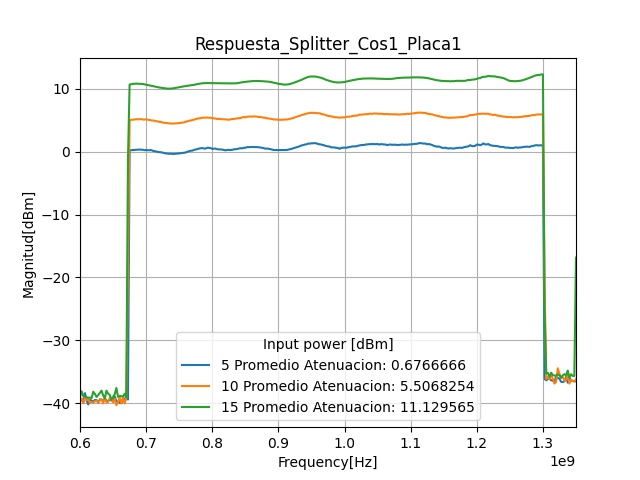
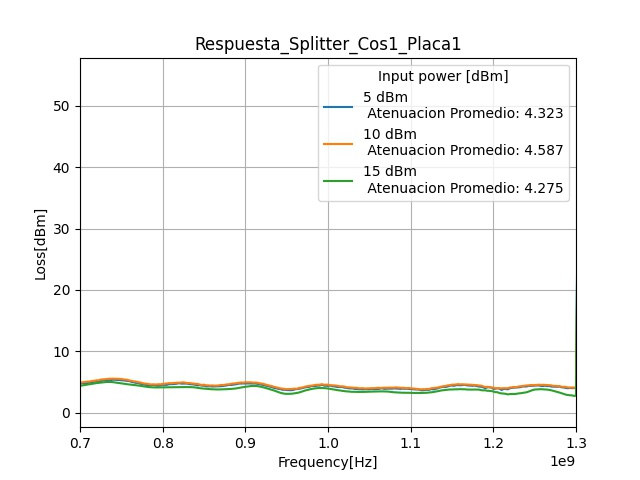
Nuevas figuras en base a las perdidas

diff --git a/plotcsv.py b/plotcsv.py
@@ -3,66 +3,135 @@ import numpy as np
 from classCSV.extratCSV import extratCSV
 
 '''
-Graficar Aislacion, solo con los mixer
-Restar las perdidas de los splitter 8,5dB EP2RCW
-y splitter en cuadratura 5dB
+_________LO-IF
+Con los mixer se tuvo en cuenta las peridas de los splitter 8,5dB EP2RCW(hoja de datos)
+y splitter en cuadratura 5.5 dB QCN-13D+ (medidos, en la hoja de datos era de 3.2 aprox)
+No se tiene los .cv de 20dBm por que el generador no garantizaba salida cte con 20dBm para todas las frecuencias
+_Tareas:
 Graficar RF-FI
 Probar con los generadores usb en modo inverso en las 2 entradas
 '''
 #######################################
 # ##LO-IF-Io1
-# path1 = "image_and_csv/csv/TRACE1:LO+IF+10DBM[500MHZ+1500MHZ].CSV"
-# path2 = "image_and_csv/csv/TRACE1:LO+IF+15DBM[500MHZ+1500MHZ].CSV"
-# path3 = "image_and_csv/csv/TRACE1:LO+IF+20DBM[500MHZ+1500MHZ].CSV"
+# tema          = 'Aislacion_entre_puertos_LO-IF'
+# value         = ['10 dBm','15 dBm']
+# outputPort    = 'Io1'
+# numerosCsv    = 2
+# path1         = "image_and_csv/csv/TRACE1:LO+IF+10DBM[500MHZ+1500MHZ].CSV"
+# path2         = "image_and_csv/csv/TRACE1:LO+IF+15DBM[500MHZ+1500MHZ].CSV"
+# path3 = "image_and_csv/csv/TRACE1:LO+IF+20DBM[500MHZ+1500MHZ].CSV" 
 
 #######################################
 ##LO-IF-Io2
-# path1 = "image_and_csv/csv/TRACE1:LO+IF+I2+10DBM[500MHZ+1500MHZ].CSV"
-# path2 = "image_and_csv/csv/TRACE1:LO+IF+I2+15DBM[500MHZ+1500MHZ].CSV"
+# tema          = 'Aislacion_entre_puertos_LO-IF'
+# value         = ['10 dBm','15 dBm']
+# outputPort    = 'Io2'
+# numerosCsv    = 2
+# path1         = "image_and_csv/csv/TRACE1:LO+IF+I2+10DBM[500MHZ+1500MHZ].CSV"
+# path2         = "image_and_csv/csv/TRACE1:LO+IF+I2+15DBM[500MHZ+1500MHZ].CSV"
 # path3 = "image_and_csv/csv/TRACE1:LO+IF+I2+20DBM[500MHZ+1500MHZ].CSV"
 
 #######################################
 ##LO-IF-Q1
-# path1 = "image_and_csv/csv/TRACE1:LO+IF+Q1+10DBM[500MHZ+1500MHZ].CSV"
-# path2 = "image_and_csv/csv/TRACE1:LO+IF+Q1+15DBM[500MHZ+1500MHZ].CSV"
+# tema            = 'Aislacion_entre_puertos_LO-IF'
+# value           = ['10 dBm','15 dBm']
+# outputPort      = 'Qo1'
+# numerosCsv      = 2
+# path1           = "image_and_csv/csv/TRACE1:LO+IF+Q1+10DBM[500MHZ+1500MHZ].CSV"
+# path2           = "image_and_csv/csv/TRACE1:LO+IF+Q1+15DBM[500MHZ+1500MHZ].CSV"
 # path3 = "image_and_csv/csv/TRACE1:LO+IF+Q1+20DBM[500MHZ+1500MHZ].CSV"
 
 #######################################
 ##LO-IF-Q2
-# path1       = "image_and_csv/csv/TRACE1:LO+IF+Q2+10DBM[500MHZ+1500MHZ].CSV"
-# path2       = "image_and_csv/csv/TRACE1:LO+IF+Q2+15DBM[500MHZ+1500MHZ].CSV"
-# path3       = "image_and_csv/csv/TRACE1:LO+IF+Q2+20DBM[500MHZ+1500MHZ].CSV"
+# tema            = 'Aislacion_entre_puertos_LO-IF'
+# value           = ['10 dBm','15 dBm']
+# outputPort      = 'Qo2'
+# numerosCsv      = 2
+# path1           = "image_and_csv/csv/TRACE1:LO+IF+Q2+10DBM[500MHZ+1500MHZ].CSV"
+# path2           = "image_and_csv/csv/TRACE1:LO+IF+Q2+15DBM[500MHZ+1500MHZ].CSV"
+# path3         = "image_and_csv/csv/TRACE1:LO+IF+Q2+20DBM[500MHZ+1500MHZ].CSV"
 
 #######################################
-##Respuesta Splitter
-path1       = "image_and_csv/csv/TRACE1:RESPUESTASPLITTER+COS1+5DBM[675MHZ+1300MHZ].CSV"
-path2       = "image_and_csv/csv/TRACE1:RESPUESTASPLITTER+COS1+10DBM[675MHZ+1300MHZ].CSV"
-path3       = "image_and_csv/csv/TRACE1:RESPUESTASPLITTER+15DBM[675MHZ+1300MHZ].CSV"
+##Respuesta Splitter Cos1
+# tema            = 'Respuesta_Splitter'
+# value           = ['5 dBm','10 dBm','15 dBm']
+# outputPort      = 'Cos1'
+# numerosCsv      = 3
+# path1           = "image_and_csv/csv/TRACE1:RESPUESTASPLITTER+COS1+5DBM[675MHZ+1300MHZ].CSV"
+# path2           = "image_and_csv/csv/TRACE1:RESPUESTASPLITTER+COS1+10DBM[675MHZ+1300MHZ].CSV"
+# path3           = "image_and_csv/csv/TRACE1:RESPUESTASPLITTER+15DBM[675MHZ+1300MHZ].CSV"
+
+#######################################
+##Respuesta Splitter Sen 1
+tema            = 'Respuesta_Splitter'
+value           = ['5 dBm','10 dBm','15 dBm']
+outputPort      = 'Sen1'
+numerosCsv      = 3
+path1           = "image_and_csv/csv/TRACE1:RESPUESTASPLITTER+SEN1+5DBM[675MHZ+1300MHZ].CSV"
+path2           = "image_and_csv/csv/TRACE1:RESPUESTASPLITTER+SEN1+10DBM[675MHZ+1300MHZ].CSV"
+path3           = "image_and_csv/csv/TRACE1:RESPUESTASPLITTER+SEN1+15DBM[675MHZ+1300MHZ].CSV"
 
 
+#######################################
+## Aislacion RF-IF-Io1
+tema            = 'Respuesta_Splitter'
+value           = ['10 dBm','15 dBm']
+outputPort      = 'Io1'
+numerosCsv      = 2
+path1           ="image_and_csv/csv/TRACE1:RF+IF+I1+10DBM[0MHZ+2000MHZ].CSV"
+path2           ="image_and_csv/csv/TRACE1:RF+IF+I1+15DBM[0MHZ+2000MHZ].CSV"
+
+#######################################
+## Aislacion RF-IF-Io2
+# tema            = 'Respuesta_Splitter'
+# value           = ['10 dBm','15 dBm']
+# outputPort      = 'Io2'
+# numerosCsv      = 2
+# path1           ="image_and_csv/csv/TRACE1:RFQ+IF+I2+10DBM[0MHZ+2000MHZ].CSV"
+# path2           ="image_and_csv/csv/TRACE1:RFQ+IF+I2+15DBM[0MHZ+2000MHZ].CSV"
+
+#######################################
+## Aislacion RF-IF-Qo1
+# tema            = 'Respuesta_Splitter'
+# value           = ['10 dBm','15 dBm']
+# outputPort      = 'Qo1'
+# numerosCsv      = 2
+# path1           ="image_and_csv/csv/TRACE1:RF+IF+Q1+10DBM[0MHZ+2000MHZ].CSV"
+# path2           ="image_and_csv/csv/TRACE1:RF+IF+Q1+15DBM[0MHZ+2000MHZ].CSV"
+
+#######################################
+## Aislacion RF-IF-Qo2
+# tema            = 'Respuesta_Splitter'
+# value           = ['10 dBm','15 dBm']
+# outputPort      = 'Qo2'
+# numerosCsv      = 2
+# path1           ="image_and_csv/csv/TRACE1:RFQ+IF+Q2+10DBM[0MHZ+2000MHZ].CSV"
+# path2           ="image_and_csv/csv/TRACE1:RFQ+IF+Q2+10DBM[0MHZ+2000MHZ].CSV"
+
+
+
+# paths       = [path1,path2]
 paths       = [path1,path2,path3]
-outputPort  = 'Cos1'
 placa       = 'Placa1'
-tema        = "Respuesta_Splitter"
-value       = ['5','10','15']
-
 tilte       ='{}_{}_{}'.format(tema,outputPort,placa)
 
-plt.figure(1)
-for i in range(3):
+plt.figure(tema)
+for i in range(numerosCsv):
     Lo_If       = extratCSV(paths[i])
     frequency   = Lo_If.get_frequency()
-    dBm         = Lo_If.get_dBm()
-    # plt.figure(1)
-    promedio = np.mean(np.extract(np.array(dBm)>-10,dBm))
-    print(promedio)
-    plt.plot(frequency,dBm,label=value[i]+' Promedio Atenuacion: ' + str(promedio))
+    dBm         = np.abs(Lo_If.get_dBm())
+    # dBm         = np.abs(Lo_If.get_dBm())-8.5-.4 #Resta de atenuacion en los spliter
+    ##Spliter en cuadratura
+    # dBm       = int(value[i].rsplit(' ')[0])- np.array(Lo_If.get_dBm()) 
+    # atte      = np.mean(np.extract(np.array(dBm)<)#0,dBm))
+    ###
+    plt.plot(frequency,dBm,label=value[i])#'\n Atenuacion Promedio: ' + str(round(atte,3)))
     # print(np.mean(np.extract(np.abs(dBm))))
     plt.legend(title='Input power [dBm]')
 
 
-plt.title(tilte);plt.xlabel('Frequency[Hz]');plt.ylabel('Magnitud[dBm]')
+plt.title(tilte);plt.xlabel('Frequency[Hz]');plt.ylabel('Loss[dBm]')
 plt.grid(True)
-plt.xlim(0.6*10**9,1.35*10**9)
+# plt.xlim(0.7*10**9,1.3*10**9)
 plt.savefig('/home/dario/Documentos/funda/fiMediciones/DSA815/image_and_csv/image/{}.jpg'.format(tilte))
 plt.show()
